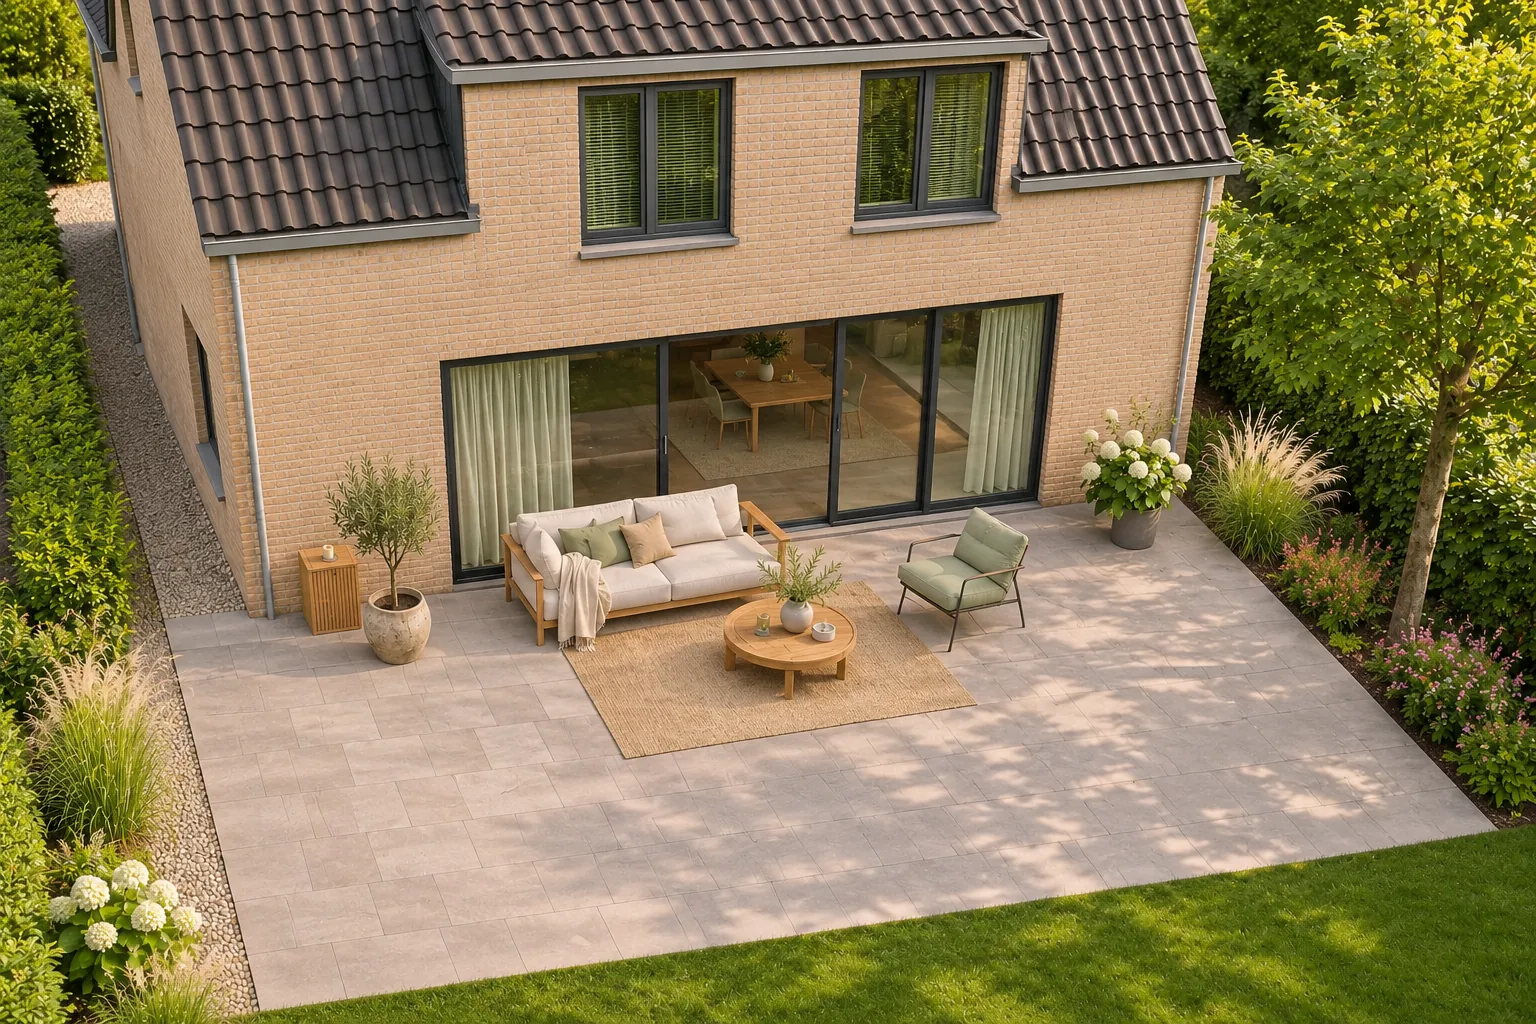
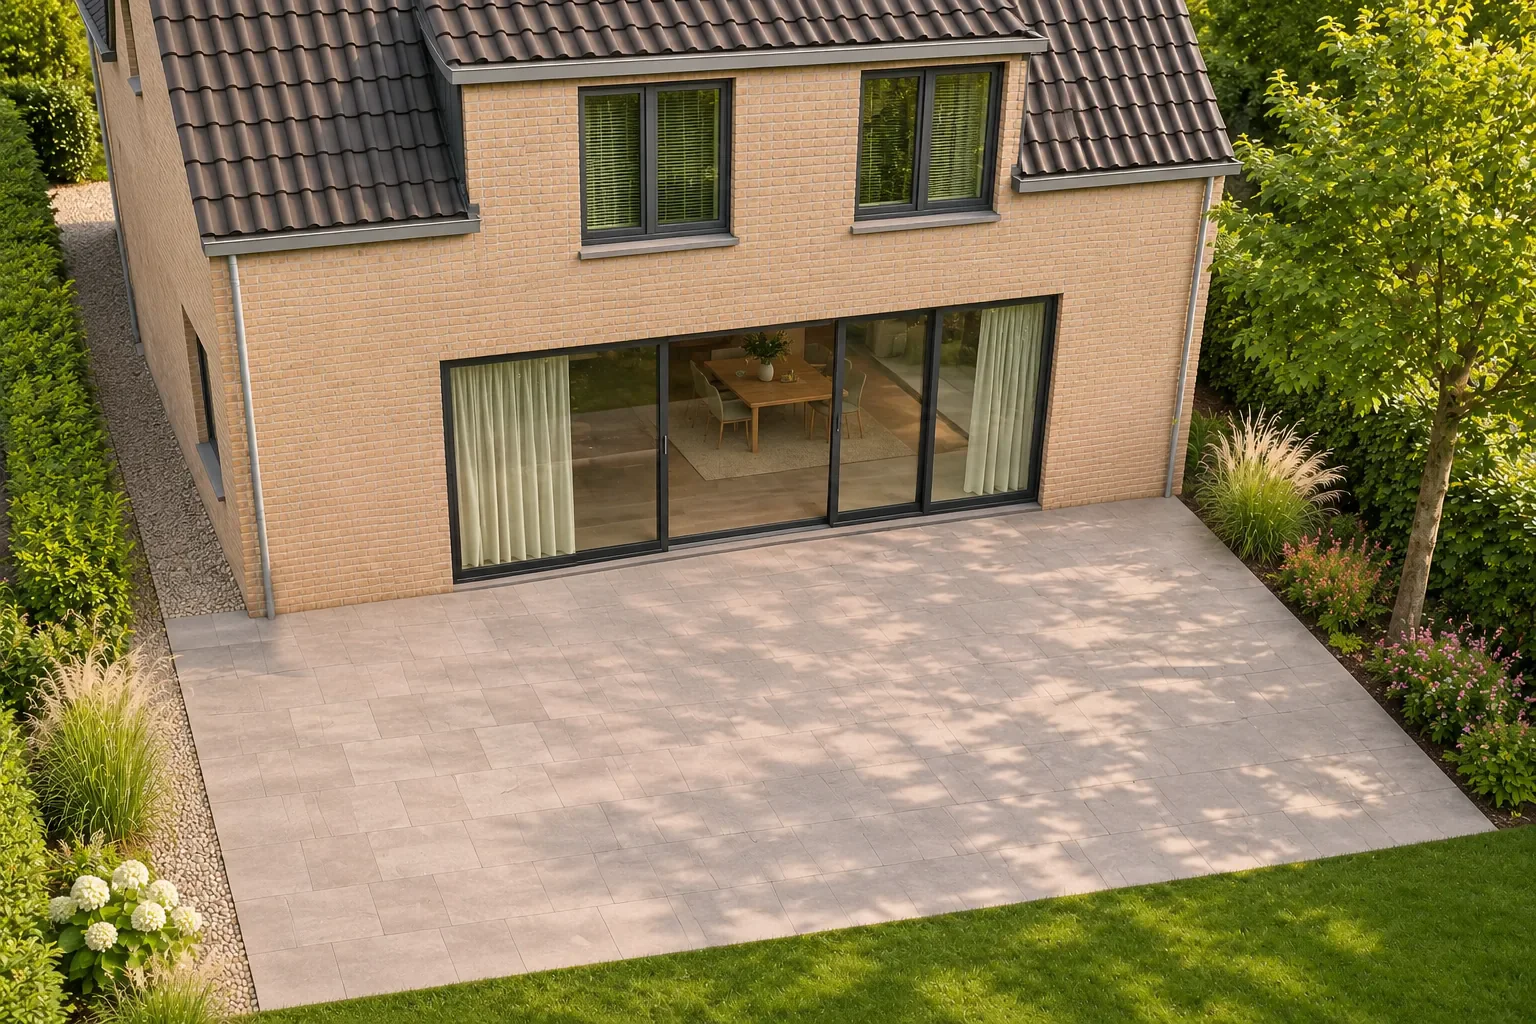
Maak het terras vrij en sluit de zijwanden aan op de gevel

Changed region(s): [[0.1562, 0.375, 0.7812, 0.75]]

diff --git a/veranda-renderer.js b/veranda-renderer.js
@@ -11,8 +11,8 @@
       matrix:[[0.91052991,-0.085,0,431.16524217],[0.18694017,-0.208,-0.80164315,411.36182336],[0.00053561,-0.00064,0,1]]
     },
     roof: {
-      file:"tuin-dak.webp", crop:[233,109,480], eye:[-542,2281,1255],
-      matrix:[[0.76696672,0.037,-0.09106991,445.40253566],[-0.04331537,0.203,-0.64112704,318.45166403],[0.00017116,-0.00027,-0.00023219,1]]
+      file:"tuin-dak.webp", crop:[233,109,480], eye:[-551,2325,1197],
+      matrix:[[0.76696672,0.037,-0.09106991,445.40253566],[-0.04331537,0.183,-0.64112704,318.45166403],[0.00017116,-0.00027,-0.00023219,1]]
     },
     left: {
       file:"tuin-links.webp", crop:[269,194,449], eye:[-792,1035,140],
@@ -56,7 +56,9 @@
     });
     const asset={image,loaded};
     images.set(name,asset);
-    image.src=new URL(plates[name].file,baseURL).href;
+    const url=new URL(plates[name].file,baseURL);
+    url.search=new URL(baseURL).search;
+    image.src=url.href;
     return asset;
   }
   const ready=loadPlate("overview").loaded;
@@ -282,7 +284,7 @@
     }
     function wedge(which,material) {
       if(material==="geen" || !material) return;
-      const {at}=sidePlane(which), low=eave-10;
+      const {at}=sidePlane(which), low=eave-12;
       const pts=[at(0,low),at(d,low),at(0,topAt(0)-7)];
       if(material==="aluminium") {
         fill(pts,bare);
@@ -359,12 +361,26 @@
     profile(left-2,right+2,-.35,.8,mountingHeight+3.1,mountingHeight+3.1,2.3);
     const near=eye[0]>0?"right":"left",far=near==="left"?"right":"left";
     const sideX=name=>name==="left"?left:right;
-    const sideWall=name=>{wall(name,cfg[name]);wedge(name,cfg[name+"Wedge"]);};
+    function sideWall(name) {
+      const panel=cfg[name], infill=cfg[name+"Wedge"];
+      wall(name,panel);
+      wedge(name,infill);
+      // The rear jamb carries the panel between the paving and the wall rail,
+      // including when the selected width puts it in front of the sliding doors.
+      if ((!panel || panel==="open") && (!infill || infill==="geen")) return;
+      const x=sideX(name);
+      const top=mountingHeight-7;
+      const base=panel && panel!=="open" ? 0 : eave-12;
+      profile(x-2.6,x+2.6,.4,5.1,top,top,top-base);
+    }
     sideWall(far);
     post(sideX(far),d,9,eave-5.8);
     if(!above)roof();
-    if(eye[1]>d || above)wall("front",cfg.front);
+    const seeFront=eye[1]>d;
+    const inFrontOfOpening=eye[0]>=left && eye[0]<=right;
+    if(seeFront && !inFrontOfOpening)wall("front",cfg.front);
     sideWall(near);
+    if(seeFront && inFrontOfOpening)wall("front",cfg.front);
     if(w>=600)post(0,d,9,eave-5.8);
     post(sideX(near),d,9,eave-5.8);
     if(above)roof();

diff --git a/index.html b/index.html
@@ -7,10 +7,10 @@
   <meta name="description" content="Kies de framekleur, het dak en de afwerking van je veranda in de interactieve demo van SENS.">
   <title>Verandaconfigurator · SENS</title>
   <link rel="icon" href="sens-logo.png" type="image/png">
-  <link rel="preload" href="tuin.webp" as="image">
-  <link rel="stylesheet" href="studio.css?v=stapbeelden">
-  <script defer src="veranda-renderer.js?v=stapbeelden"></script>
-  <script defer src="studio.js?v=stapbeelden"></script>
+  <link rel="preload" href="tuin.webp?v=vrij-terras" as="image">
+  <link rel="stylesheet" href="studio.css?v=vrij-terras">
+  <script defer src="veranda-renderer.js?v=vrij-terras"></script>
+  <script defer src="studio.js?v=vrij-terras"></script>
 </head>
 <body>
   <a class="skip" href="#configurator">Naar het keuzemenu</a>

diff --git a/studio.css b/studio.css
@@ -44,7 +44,7 @@ h1 span { color: var(--accent); }
 .gallery, .choice-panel { border-radius: 15px; }
 .gallery { aspect-ratio: 3 / 2; overflow: hidden; position: sticky; top: 14px; align-self: start; isolation: isolate; background: #dce1d7; color: white; }
 #preview-canvas { display: block; width: 100%; height: auto; aspect-ratio: 3 / 2; }
-#preview-canvas { background: url("tuin.webp") center / cover no-repeat; }
+#preview-canvas { background: url("tuin.webp?v=vrij-terras") center / cover no-repeat; }
 .circle, .dialog-close { display: inline-flex; align-items: center; justify-content: center; }
 .circle { border-radius: 50%; width: 37px; height: 37px; border: 1px solid #ffffff95; background: #26332c8c; color: white; padding: 8px; }
 .circle:hover { background: #25372dec; }
